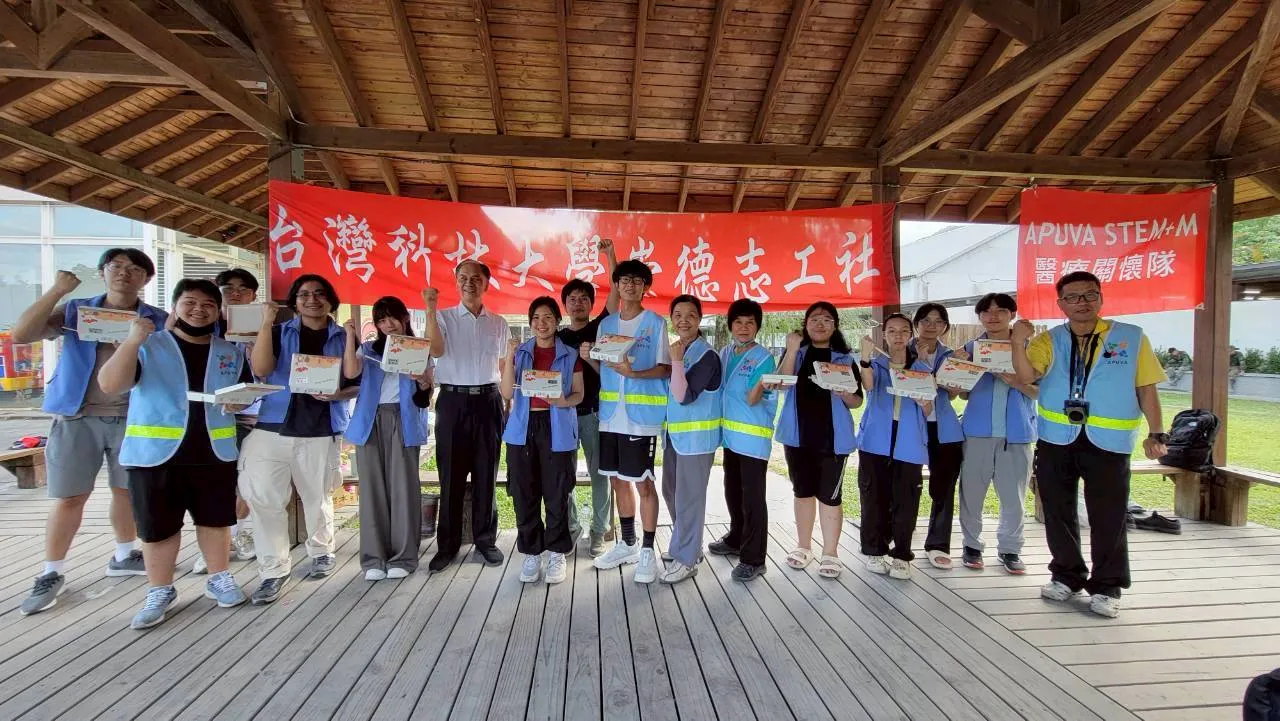
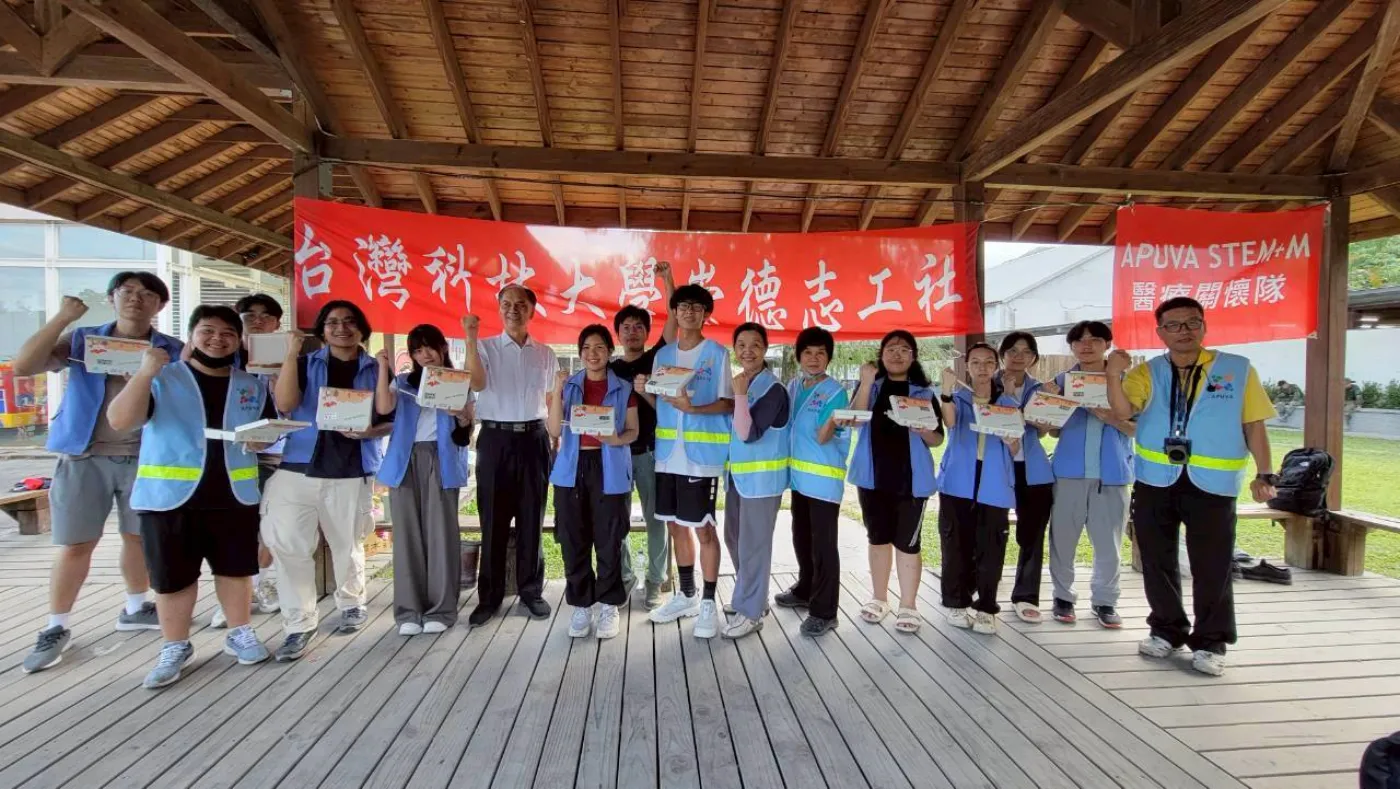
Trim the deck, spread the crafts collage, rebuild the closing slide
Drops the run-of-show slide, so the deck opens straight into the monkeys and
is down to 18 pages. The sparkler photo leaves the STEAM slide.

Relief and overseas keep only their titles now: no eyebrow, no paragraph. The
photos are the point of those pages, and the text was taking half the height.
Relief is retitled 災難在哪，我們就在哪 with Disaster Relief under it, overseas
becomes 海外交流，開拓視野. The kitchen slide keeps a single line about
Wednesday cooking. Photo heights at 1600x900: relief 221 to 242px, kitchen 235
to 279px. Overseas is unchanged at 324px — three photos in one row are limited
by the width, not the height.

The four crafts photos were overlapping the way the original deck had them;
pulled apart so each one reads whole. Creative Arts Camp gains grass and a
mango drink. The group photo, blood pressure reading and five-person shot on
the relief wall are replaced with the full-resolution originals from
114學年度/1003醫療志工 — the other five are still crops of the old collage at
roughly 220x165.

The draw slide loses the roster sentence and its QR roughly doubles. The group
photo slide is title and subtitle only. The closing slide is rebuilt as the
orientation deck ends: Portal QR, six event promos, and the semester calendar,
each captioned in both languages.

Changed region(s): [[0.4688, 0.7323, 0.5, 0.7628], [0.25, 0.3051, 0.2812, 0.3356]]

diff --git a/stage.html b/stage.html
@@ -90,24 +90,6 @@
     padding-left:.3em;
   }
 
-  /* ---------- 流程 ---------- */
-  .agenda{
-    list-style:none;margin:2vmin 0 0;padding:0;
-    display:grid;gap:1.6vmin;width:min(100%,52rem);
-  }
-  .agenda li{
-    display:flex;align-items:center;gap:2.4vmin;
-    padding:1.8vmin 3vmin;
-    border-radius:1.4rem;
-    background:rgba(255,255,255,.72);
-    border:.3vmin solid var(--paper-3);
-    text-align:left;
-  }
-  .agenda .e{font-size:clamp(1.8rem,5.4vmin,3.6rem);line-height:1;flex:none;}
-  /* 固定寬度，五列的中文／英文才會對齊成一欄 */
-  .agenda .t{flex:0 0 34%;font-size:clamp(1.2rem,3.4vmin,2.6rem);font-weight:900;}
-  .agenda .d{flex:1;min-width:0;font-size:clamp(.95rem,2.5vmin,1.7rem);color:var(--ink-2);}
-
   /* ---------- 三隻猴子 ---------- */
   .roles{
     display:grid;grid-template-columns:repeat(3,1fr);
@@ -344,7 +326,7 @@
     border:.35vmin solid var(--paper-3);
     text-align:left;
   }
-  .askqr .qr{width:min(20vmin,11rem);flex:none;}
+  .askqr .qr{width:min(34vmin,20rem);flex:none;}
   .askqr__t{font-size:clamp(1rem,2.7vmin,1.9rem);line-height:1.6;color:var(--ink-2);}
   .askqr__t b{display:block;color:var(--ink);font-size:clamp(1.1rem,3.2vmin,2.3rem);}
   .askqr__u{font-size:clamp(.75rem,1.8vmin,1.15rem);word-break:break-all;opacity:.8;}
@@ -373,8 +355,30 @@
     background:#fff;border-radius:.6rem;
     box-shadow:0 .4vmin 1.2vmin rgba(90,52,18,.28);
   }
+  .end__pic img{display:block;max-width:100%;max-height:100%;width:auto;height:auto;}
   .end__pic .qr{width:auto;height:100%;aspect-ratio:1;}
   .end__pic .qr svg{width:100%;height:100%;}
+  /* QR 方方正正就好，不用跟著卡片一起拉高 */
+  .end--qr .end__pic{flex:0 0 auto;align-self:center;}
+
+  .end--qr{flex:0 0 20%;}
+  .end--promo{flex:0 0 44%;}
+  .end--cal{flex:0 0 30%;}
+
+  /* 三欄兩排，六張宣傳圖各自照原比例縮進格子裡 */
+  .promo{
+    flex:1 1 auto;min-height:0;
+    display:grid;
+    grid-template-columns:repeat(3,minmax(0,1fr));
+    grid-template-rows:repeat(2,minmax(0,1fr));
+    gap:.55rem;width:100%;
+    place-items:center;
+  }
+  .promo img{
+    max-width:100%;max-height:100%;width:auto;height:auto;display:block;
+    border:.2rem solid #fff;border-radius:.35rem;
+    box-shadow:0 .2rem .55rem rgba(90,52,18,.24);
+  }
   .end__title{
     flex:none;
     font-size:clamp(1rem,3vmin,2.1rem);font-weight:900;color:var(--flame);
@@ -596,6 +600,44 @@
         "</g>" +
       "</svg>",
 
+    grass:
+      '<svg viewBox="0 0 200 100" preserveAspectRatio="xMidYMid meet" aria-hidden="true">' +
+        '<g fill="none" stroke-linecap="round">' +
+          '<g stroke="#82A821" stroke-width="6">' +
+            '<path d="M14 100 q-4 -34 10 -56"/><path d="M34 100 q6 -38 26 -54"/>' +
+            '<path d="M60 100 q-2 -30 8 -46"/><path d="M96 100 q8 -34 30 -48"/>' +
+            '<path d="M124 100 q-4 -32 6 -50"/><path d="M156 100 q10 -30 28 -42"/>' +
+            '<path d="M180 100 q-2 -26 4 -40"/>' +
+          "</g>" +
+          '<g stroke="#A9CE3B" stroke-width="5">' +
+            '<path d="M24 100 q8 -26 26 -36"/><path d="M78 100 q-6 -24 2 -38"/>' +
+            '<path d="M112 100 q10 -24 26 -34"/><path d="M168 100 q-6 -22 0 -34"/>' +
+          "</g>" +
+        "</g>" +
+        '<g fill="#E2621C">' +
+          '<circle cx="50" cy="40" r="7"/><circle cx="130" cy="46" r="6"/>' +
+          '<circle cx="186" cy="56" r="5"/>' +
+        "</g>" +
+        '<g fill="#F2A72C">' +
+          '<circle cx="50" cy="40" r="3"/><circle cx="130" cy="46" r="2.6"/>' +
+        "</g>" +
+      "</svg>",
+
+    /* 楊枝甘露：芒果西米露那杯 */
+    mango:
+      '<svg viewBox="0 0 70 110" preserveAspectRatio="xMidYMid meet" aria-hidden="true">' +
+        '<path d="M12 30 h46 l-6 68 a6 6 0 0 1 -6 5 h-22 a6 6 0 0 1 -6 -5z" fill="#FFF6E2"/>' +
+        '<path d="M15 52 h40 l-4 46 a6 6 0 0 1 -6 5 h-20 a6 6 0 0 1 -6 -5z" fill="#F2A72C"/>' +
+        '<path d="M13 38 h44 l-1.2 14 h-41.6z" fill="#E9A317" opacity=".55"/>' +
+        '<g fill="#FFFCF2" opacity=".9">' +
+          '<circle cx="26" cy="72" r="3"/><circle cx="38" cy="80" r="3"/>' +
+          '<circle cx="46" cy="66" r="2.6"/><circle cx="31" cy="90" r="2.6"/>' +
+        "</g>" +
+        '<path d="M12 30 h46" stroke="#0E8C8F" stroke-width="5" stroke-linecap="round" fill="none"/>' +
+        '<path d="M46 30 l10 -24" stroke="#E2621C" stroke-width="5" stroke-linecap="round" fill="none"/>' +
+        '<path d="M20 26 q6 -12 18 -10 q-4 12 -18 10z" fill="#A9CE3B"/>' +
+      "</svg>",
+
     tiramisu:
       '<svg viewBox="0 0 100 100" preserveAspectRatio="xMidYMid meet" aria-hidden="true">' +
         '<rect x="14" y="34" width="72" height="52" rx="5" fill="#F7E9CE" ' +
@@ -626,7 +668,6 @@
   function add(o) { S.push(o); }
 
   add({ part: "open", kind: "cover", label: "首頁・崇德志工社" });
-  add({ part: "open", kind: "agenda", label: "今天的流程" });
 
   add({ part: "monkey", kind: "monkeyRules", label: "三隻猴子 規則・比劃猴掃 QR" });
   add({ part: "monkey", kind: "monkeyPlay", label: "★ 三隻猴子 進行中" });
@@ -760,25 +801,6 @@
       "</p>";
   };
 
-  VIEWS.agenda = function () {
-    var rows = [
-      ["🙈", "三隻猴子", "Three Monkeys", "比手畫腳、傳話、閉眼作畫，一次搞定破冰"],
-      ["🤝", "社團介紹", "About the Club", "志工、科學營、社課，還有賑災、國外交流、開伙"],
-      ["🎓", "指導老師", "Our Advisor", "社團背後一直在的人"],
-      ["🎁", "抽獎", "Lucky Draw", "名單都在裡面了，看誰運氣好"],
-      ["📸", "大合照", "Group Photo", "今天的證據"]
-    ];
-    return '' +
-      '<p class="eyebrow">今天的流程<span class="en">Run of show</span></p>' +
-      '<h1 class="big">五件事，一個下午<span class="en">Five things, one afternoon</span></h1>' +
-      '<ul class="agenda">' +
-        rows.map(function (r) {
-          return '<li><span class="e">' + r[0] + '</span>' +
-            '<span class="t">' + bi(r[1], r[2]) + '</span>' +
-            '<span class="d">' + esc(r[3]) + '</span></li>';
-        }).join("") +
-      '</ul>';
-  };
 
   /* ---------- 三隻猴子 ---------- */
   VIEWS.monkeyRules = function () {
@@ -882,7 +904,7 @@
     }
 
     return '' +
-      '<p class="eyebrow">' + bi(set.eyebrow || "", set.eyebrowEn) + "</p>" +
+      (set.eyebrow ? '<p class="eyebrow">' + bi(set.eyebrow, set.eyebrowEn) + "</p>" : "") +
       '<h1 class="big">' + bi(set.title || "", set.titleEn) + "</h1>" +
       (set.lede
         ? '<p class="lede" style="margin-top:.6rem">' + biHtml(set.lede, set.ledeEn) + "</p>"
@@ -1018,10 +1040,6 @@
     return '' +
       '<p class="eyebrow">🎁 Lucky Draw</p>' +
       '<h1 class="huge">抽獎時間<span class="en">Lucky Draw</span></h1>' +
-      '<p class="lede">' +
-        biHtml("名單上共 <b>" + pool().length + "</b> 位。抽出來的人請上台，抽過就不會再抽到你。",
-               pool().length + " names in the draw. Winners come up front, and are taken out of the pool.") +
-      "</p>" +
       prizeList() +
       (qr
         ? '<div class="askqr">' +
@@ -1075,20 +1093,20 @@
     }
     return '' +
       '<p class="eyebrow">📸</p>' +
-      '<h1 class="huge">大合照<span class="en">Group Photo</span></h1>' +
-      '<p class="lede">' +
-        biHtml("往中間站、矮的在前面、手可以舉起來。<br>準備好了，主持人按 <b>T</b> 開始倒數。",
-               "Squeeze in, shorter folks to the front, hands up if you like.") +
-      "</p>";
+      '<h1 class="huge">大合照<span class="en">Group Photo</span></h1>';
   };
 
   /* ---------- 結束卡 ---------- */
+  /* 這學期的活動宣傳圖，排法照迎新最後一頁 */
+  var PROMOS = [
+    "donut", "boardgamenight", "mt_cleanup",
+    "midmoon", "teaparty", "tiramisu"
+  ];
+
   VIEWS.outro = function () {
-    var CFG = window.CDVC_CONFIG || {};
-    var cards = [
-      { url: CFG.portalUrl, zh: "傳送門", en: "Portal · the form" },
-      { url: CFG.socialUrl, zh: "Instagram", en: "What we get up to" }
-    ].filter(function (c) { return c.url; });
+    var url = (window.CDVC_CONFIG || {}).portalUrl || "";
+    var qr = "";
+    try { qr = url ? QR.svg(url) : ""; } catch (e) { qr = ""; }
 
     return '' +
       '<div class="endhead">' +
@@ -1097,20 +1115,31 @@
           '<img src="assets/logo2.webp" alt="崇德志工社">' +
         "</div>" +
         "<div>" +
-          '<h1 class="big">今天很高興<span class="mark">見到你</span>' +
-            '<span class="en">Great to meet you today</span></h1>' +
+          '<h1 class="big">這學期的<span class="mark">活動</span>' +
+            '<span class="en">This semester</span></h1>' +
         "</div>" +
       "</div>" +
       '<div class="ends">' +
-        cards.map(function (c) {
-          var qr = "";
-          try { qr = QR.svg(c.url); } catch (e) { qr = ""; }
-          return '<div class="end">' +
-            '<div class="end__pic"><div class="qr">' + qr + "</div></div>" +
-            '<div class="end__title">' + esc(c.zh) +
-              "<small>" + esc(c.en) + "</small></div>" +
-          "</div>";
-        }).join("") +
+        (qr
+          ? '<div class="end end--qr">' +
+              '<div class="end__pic"><div class="qr">' + qr + "</div></div>" +
+              '<div class="end__title">傳送門<small>Portal</small></div>' +
+            "</div>"
+          : "") +
+        '<div class="end end--promo">' +
+          '<div class="promo">' +
+            PROMOS.map(function (n) {
+              return '<img src="assets/' + n + '.webp" alt="近期活動" onerror="this.remove()">';
+            }).join("") +
+          "</div>" +
+          '<div class="end__title">近期活動<small>Coming up</small></div>' +
+        "</div>" +
+        '<div class="end end--cal">' +
+          '<div class="end__pic">' +
+            '<img src="assets/calendar.webp" alt="這學期的活動行事曆" onerror="this.remove()">' +
+          "</div>" +
+          '<div class="end__title">行事曆<small>Calendar</small></div>' +
+        "</div>" +
       "</div>";
   };
 

diff --git a/assets/photos-data.js b/assets/photos-data.js
@@ -66,7 +66,6 @@
         { kind: "rocket", l: 92.5, t: 0.5, w: 7, h: 14 }
       ],
       shots: [
-        { src: P + "steam1.webp", alt: "科學營課程", l: 48.97, t: 6.50, w: 44.08, h: 52.18 },
         { src: P + "steam2.webp", alt: "小朋友動手做實驗", l: 36.69, t: 53.99, w: 49.95, h: 49.97 },
         { src: P + "steam3.webp", alt: "科學營帶隊", l: 3.77, t: 22.73, w: 46.87, h: 46.89 },
         { src: P + "rocket.webp", alt: "水火箭發射瞬間", l: 1.50, t: 66.50, w: 34, h: 32 }
@@ -76,6 +75,11 @@
       title: "創藝營隊",
       en: "Creative Arts Camp",
       titleAt: { l: 3.62, t: 2.0, w: 49.27 },
+      deco: [
+        { kind: "grass", l: -1, t: 74, w: 30, h: 26 },
+        { kind: "grass", l: 88, t: 76, w: 24, h: 24 },
+        { kind: "mango", l: 91, t: 20, w: 9, h: 18 }
+      ],
       shots: [
         { src: P + "zhuwei1.webp", alt: "創藝營隊課堂", l: 6.37, t: 23.44, w: 41.70, h: 49.44 },
         { src: P + "zhuwei2.webp", alt: "創藝營隊活動", l: 48.07, t: 4.12, w: 42.54, h: 50.43 },
@@ -91,11 +95,12 @@
         { kind: "pompom", l: 3.5, t: 62, w: 10, h: 18 },
         { kind: "flower", l: 91.5, t: 74, w: 8, h: 15 }
       ],
+      // 原稿四張疊得很緊，這裡拉開留出間隔，每一張才看得完整
       shots: [
-        { src: P + "craft1.webp", alt: "手作社課現場", l: 34.46, t: 2.55, w: 35.70, h: 47.45 },
-        { src: P + "craft2.webp", alt: "手作成品", l: 50.00, t: 50.00, w: 20.16, h: 47.59 },
-        { src: P + "craft3.webp", alt: "專心手作中", l: 70.16, t: 21.11, w: 20.21, h: 47.86 },
-        { src: P + "craft4.webp", alt: "大家一起做", l: 15.41, t: 50.00, w: 34.59, h: 46.17 }
+        { src: P + "craft1.webp", alt: "手作社課現場", l: 31.50, t: 2.00, w: 34.00, h: 45.20 },
+        { src: P + "craft2.webp", alt: "手作成品", l: 52.00, t: 52.00, w: 19.00, h: 44.90 },
+        { src: P + "craft3.webp", alt: "專心手作中", l: 74.50, t: 19.00, w: 19.50, h: 46.20 },
+        { src: P + "craft4.webp", alt: "大家一起做", l: 15.00, t: 52.00, w: 33.00, h: 44.00 }
       ]
     },
     {
@@ -121,14 +126,8 @@
        沿著白底切成八張分開放，等高排版就會把每一張撐大。
        第一張大合照用的是原始檔，不是從拼貼圖切下來的。 */
     relief: {
-      eyebrow: "服務不挑地點",
-      eyebrowEn: "Wherever we are needed",
-      title: "賑災在哪，我們就在哪",
-      titleEn: "We go where the disaster is",
-      lede: "醫療關懷隊帶著血壓計、血氧機和物資出隊。<br>" +
-            "不是等一切都好了才去，是<b>需要的時候就在</b>。",
-      ledeEn: "The medical care team brings monitors, oximeters and supplies. " +
-              "We do not wait until it is over — we are there when it matters.",
+      title: "災難在哪，我們就在哪",
+      titleEn: "Disaster Relief",
       items: [
         { src: P + "relief1.webp", alt: "醫療關懷隊全隊合影" },
         { src: P + "relief5.webp", alt: "APUVA STEM+M 醫療關懷隊" },
@@ -142,15 +141,8 @@
     },
 
     global: {
-      eyebrow: "而且不只在台灣",
-      eyebrowEn: "And not only in Taiwan",
-      title: "我們也去海外義診交流",
-      titleEn: "Overseas clinics and exchange",
-      lede: "跟著團隊出國做義診、做交流，<br>" +
-            "你會發現<b>需要幫忙的人到處都有</b>，<br>" +
-            "而你的手可以伸得比想像中更遠。",
-      ledeEn: "Go abroad with the team and you find that people who need a hand " +
-              "are everywhere — and your reach is longer than you thought.",
+      title: "海外交流，開拓視野",
+      titleEn: "Overseas Exchange",
       items: [
         { src: P + "08.webp", alt: "海外義診服務現場" },
         { src: P + "09.webp", alt: "海外交流合影" },
@@ -159,14 +151,10 @@
     },
 
     kitchen: {
-      eyebrow: "伙食團",
-      eyebrowEn: "The kitchen team",
       title: "這就是我們平常開伙的樣子",
       titleEn: "This is how we cook together",
-      lede: "每週三 18:30，蔬食開伙，歡迎下課後來用餐。<br>" +
-            "如果早一點來，學長姐手把手教你煮飯喔。",
-      ledeEn: "Vegetarian cooking every Wednesday at 18:30. " +
-              "Come early and someone will teach you to cook.",
+      lede: "每週三 18:30，蔬食開伙，歡迎下課後來用餐。",
+      ledeEn: "Vegetarian cooking every Wednesday at 18:30.",
       items: [
         { src: P + "a0.webp", alt: "伙食團開伙" },
         { src: P + "a1.webp", alt: "一起備料" },

diff --git a/README.md b/README.md
@@ -25,7 +25,7 @@
 | 🎓 | **指導老師** | 一位老師一頁，資料放在 `assets/teachers-data.js` |
 | 🎁 | **抽獎** | 後臺貼名單與獎項，投影幕跑馬燈隨機抽，中獎者自動從名單移除。同一頁附問卷 QR |
 | 📸 | **大合照** | 按 <kbd>T</kbd> 跑 3・2・1・📸 |
-| | 結束卡 | 社徽與兩張 QR 卡：傳送門（問卷）與 Instagram |
+| | 結束卡 | 這學期的活動：傳送門 QR、六張近期活動、行事曆（排法照迎新最後一頁） |
 
 三隻猴子的題目**不會出現在投影幕上**。全場都不知道答案，猜題猴畫完才公布，
 笑點才夠大——這也是為什麼比劃猴要用手機看題目。
@@ -73,6 +73,8 @@ assets/
   teachers-data.js             指導老師（姓名、頭銜、照片、介紹）
   qrcode.js                    自製 QR 產生器，不依賴任何外部服務
   logo1.webp logo2.webp        兩顆社徽
+  donut.webp 等六張             結束卡的近期活動宣傳
+  calendar.webp                這學期的行事曆
 media/                         老師照片放這裡
 media/photos/                  社團介紹與照片牆的圖檔，一律 webp
 docs/SETUP.md                  設定與現場操作手冊
@@ -97,7 +99,10 @@ pptx 裡的「花蓮堰塞賑災」「越南」「社遊」三頁只有標題沒
 所以賑災與國外交流改接迎新那兩面照片牆，社遊先沒做。
 
 賑災原本是一張九宮格拼貼，每一格都小到看不清楚，所以沿著白底切成八張分開放，
-等高排版就會把每一張撐大（大合照那格用的是原始檔，不是從拼貼圖切的）。
+等高排版就會把每一張撐大。其中大合照、量血壓、五人合影三張已經換成原始檔，
+剩下五張還是從那張拼貼圖切出來的（約 220×165），找得到原檔的話換掉會更清楚。
+
+賑災與海外交流那兩頁只留標題，把版面整個讓給照片。
 
 ## 資料怎麼流的
 
